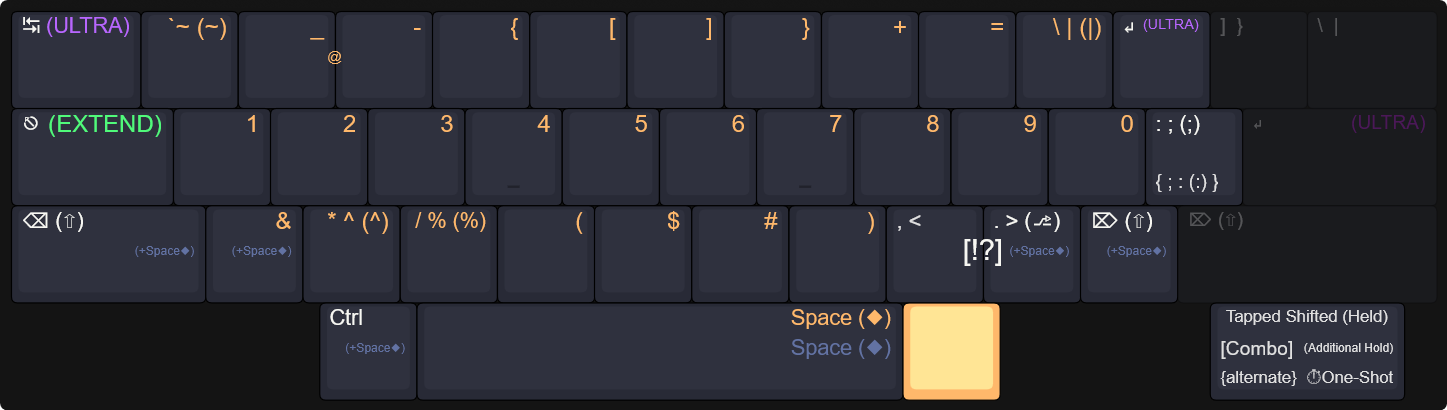
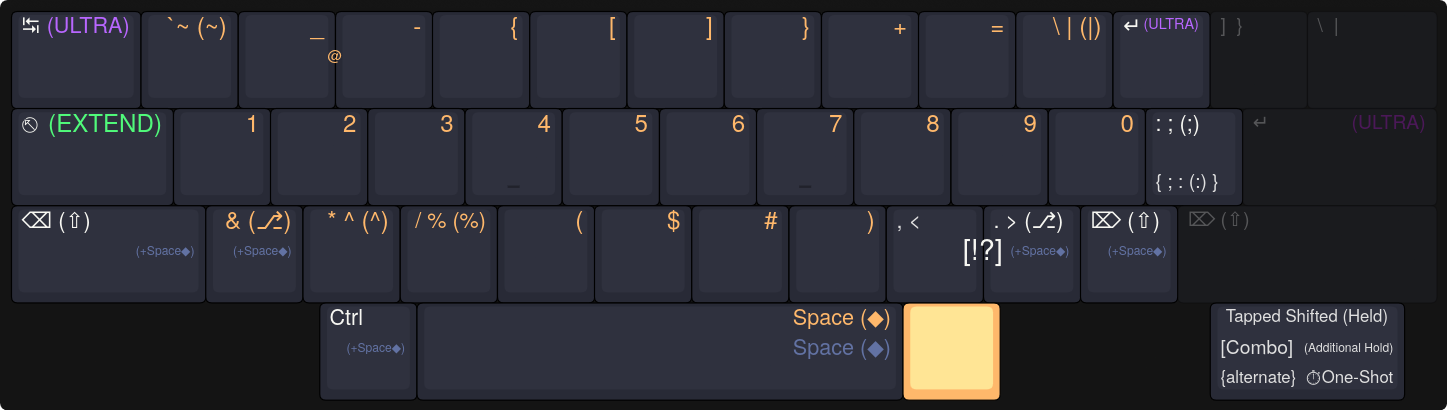
update readme

diff --git a/README.md b/README.md
@@ -3,14 +3,62 @@
 # LANSI
 Welcome to the LANSI keyboard layout, built in Kanata! LANSI is broadly compatible, configured to improve most keys found on laptops while remaining fully functional with as few as 39 keys.
 
-* Almost all QWERTY defaults remain, and additional functionality should not interfere with current muscle memory.
+* Nearly all QWERTY defaults remain, and additional functionality should not interfere with current muscle memory.
 * It features ultra-fast latency-free typing without misfires by avoiding alpha key overloading. Death to home row mods!
 * It leans away from timing pressure and timing dependency for all but the most rarely used keys and features.
 * It prioritizes fast and accessible modifier & shortcut combos, especially from the left hand for simultaneous mousing.
 * It allows what would otherwise be right-handed shortcuts without leaving the mouse via mirroring (sounds harder than it is!).
 
 ## Walkthrough
-(Hold Function)
-Tap Shifted-tap
-.
+### Base Layer
 ![Diagram showing base layer of LANSI layout](/images/base.png)
+* Of the alpha chars, all but `Z` and `.` remain untouched. These send `alt` when held.
+* Left shift sends `backspace` when tapped, and right shift sends `delete` when tapped.
+* Right shift slides inward to replace the `/` key, allowing an additional ergonomic trick I'll cover later.
+* Tapping `,.` together outputs a `!`, and shifting the `,.` combo outputs `?`.
+* The space bar sends `space` when tapped or held, as it usually does.
+*   If a modifier is already held, the spacebar sends `space` when tapped and `meta` when held.
+* Holding the key to the right of the space bar activates the `numsym` layer; let's check that out next.
+
+### Numbers + Symbols Layer
+![Diagram showing numsym layer of LANSI layout](/images/numsym.png)
+* The numsym layer manages to combine all data entry and programming tasks.
+* Only the ^%|~ characters require an additional keypress (shift) or timer (holding) to activate.
+* No modifiers, symbols, or other control characters are overwritten from the base layer.
+* In this layer, tapping `_-` (`we`) sends `@`. The `!?` combo also still works.
+
+Let go of the numsym key and hold `caps` for the Extend layer.
+
+### Extend Layer
+![Diagram showing extend layer of LANSI layout](/images/extend.png)
+* Navigation and media clusters on the right hand, laid out in three matching HJKL rows.
+* A comfy set of modifiers is featured on home row here, because your left pinky is already busy holding this layer on. Having Control, Shift, Alt and Arrow/Nav keys so easily combined with each other takes text editing to a new level anywhere Vim motions aren't supported.
+* The Meta key is found on the space bar in the Extend layer, where it is often paired with arrow keys for window management.
+* The game layer key makes the keyboard regular ANSI again, but leaves this extend layer available via Caps.
+* Pretty much all the other shortcuts on the left hand here are optional, they're just things that I happen to use a lot or wanted more comfortable access to. You can look at the config file definitions for rationale.
+
+That's it for the Extend layer! Instead of letting go of caps lock, hold the right thumb key to activate the Mouse layer. You can then safely let go of caps lock.
+
+### Mouse Layer
+![Diagram showing mouse layer of LANSI layout](/images/mouse.png)
+* The mouse layer allows you to do some quick mousing without taking your hands off the keyboard.
+* Mouse directions are on the ESDF keys. This leaves your regular Ctrl and Shift fingers available.
+* Mouse clicks are on the right hand, lined up with a regular mouse.
+* Scrolling sideways is to the side, and scrolling up and down are on the index fingers' up/down. 
+* Hold `L` to slow down the cursor when you near your target, and `'` to throw it across the screen.
+
+Let go of the right thumb key to go back to the base layer.
+
+### Function Layer
+![Diagram showing function layer of LANSI layout](/images/func.png)
+From the base layer, instead of holding the right thumb key, *tap* it instead. This will enable the function layer for 1000ms.
+* Holding any of these Fkeys sends `alt+Fkey`.
+* All modifiers on the function layer stop the timer.
+
+### Ultra "Layer"
+Hold `tab` or the (new) `enter` key to activate Ultra.
+* Adds `Ctrl+Alt+Meta` to all alphanumeric keys, and *also* adds `Shift` if the alphanumeric key is held.
+* Results in two full sets of user-definable shortcuts for app launching, window management, pro apps, etc.
+
+### Mirroring
+If the mouse back button is held, all alphanumeric keys on the left half of the board send their *mirrored* output instead. So f becomes j, d becomes k, etc. Next time you need to Ctrl+Y, Ctrl+O, Ctrl+H, etc, give it a shot. Eventually that grows into short keywords, app launcher searches, or the first few characters of a dropdown box: it's really flowy to not have to leave the mouse for just a couple presses, no matter where they are on the keyboard. There are also some non-standard "mirrors" (tab becoming shift-tab, for example) that solve other ergonomics issues.
